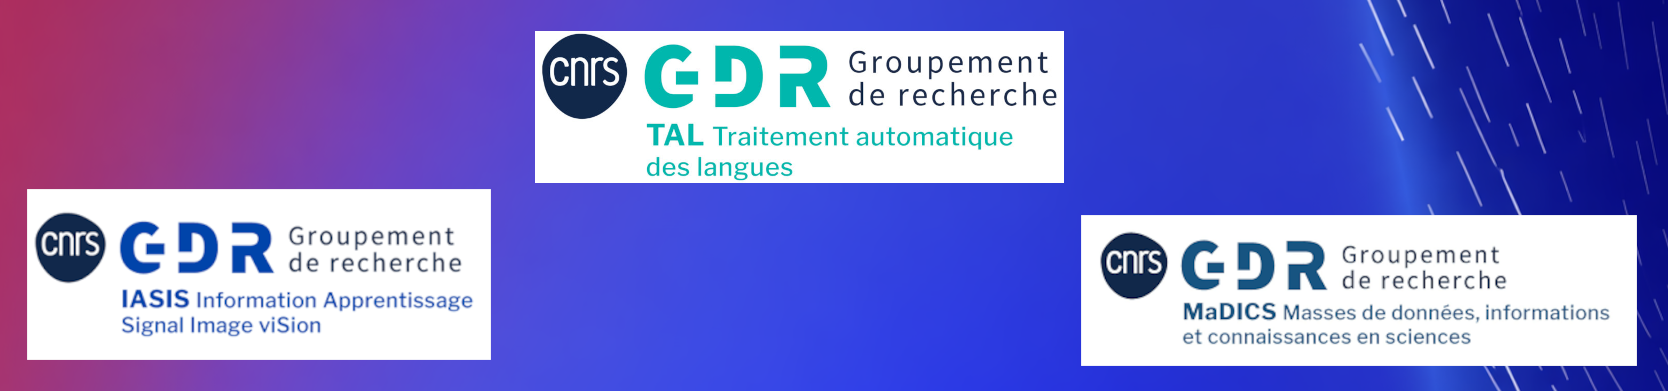
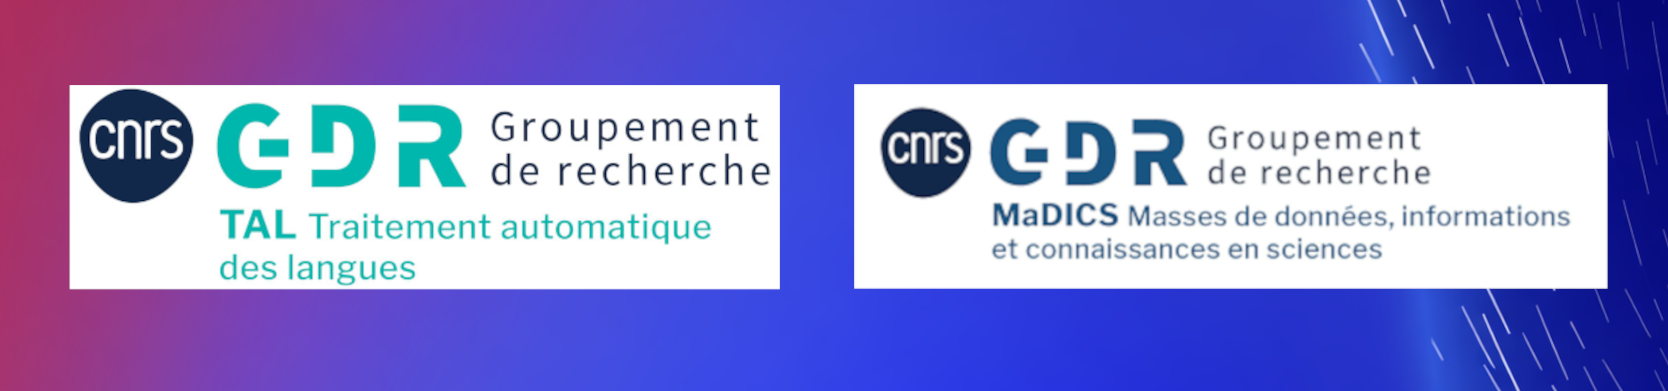
ok

diff --git a/themes/dettheme/layouts/_default/home.html b/themes/dettheme/layouts/_default/home.html
@@ -48,7 +48,7 @@
     </div>
 
     <div class="flex items-center mb-6">
-		Cet évènement est organisé par les GDR TAL, IASIS et MADICS du CNRS.
+		Cet évènement est organisé par les GDR TAL et MADICS du CNRS.
     </div>
 
     <div class="flex items-center mb-6">

diff --git a/themes/dettheme/layouts/partials/footer.html b/themes/dettheme/layouts/partials/footer.html
@@ -14,7 +14,7 @@
       </a>
 
       <p class="font-semibold">
-        GDR TAL, IASIS et MADICS - CNRS
+        GDR TAL et MADICS - CNRS
       </p>
 
       <p>

diff --git a/content/posts/10-23__Event.md b/content/posts/10-23__Event.md
@@ -46,7 +46,7 @@ conscientes”, qui soient à la fois capables de diriger les concepteurs de mod
 sur l’environnement. Elle s’attache aussi à rassembler la communauté sur toutes les questions liées à la frugalité de
 l’intelligence artificielle, de la mesure des ressources à l’implémentation efficace des modèles.
 
-Les thèmes abordés dans cette journée commune aux GdR TAL, IASIS et MADICS sont, sans être limités à :
+Les thèmes abordés dans cette journée commune aux GdR TAL et MADICS sont, sans être limités à :
 - Mesure de l’impact environnemental et sociétal : impact carbone, métriques, méthodologie de collection…
 - Benchmarks frugaux, protocoles d’évaluation, métriques mélangeant succès à une tâche et impact environnemental : densité en
 +information des modèles…

diff --git a/content/posts/10-25__invit4.md b/content/posts/10-25__invit4.md
@@ -3,7 +3,7 @@ title: "Invited talk: Raphaël Troncy"
 date: 2026-02-03T22:07:36+07:00
 slug: /rtronc/
 description: A venir
-image: https://www.eurecom.fr/fr/people/troncy-raphael/pictures/troncy-raphael_2.jpg
+image: https://avatars.githubusercontent.com/u/1051318?v=4
 caption: R. Troncy
 categories:
   - nlp

diff --git a/content/about.md b/content/about.md
@@ -12,7 +12,7 @@ Comité d'organisation:
 - Paul Caillon
 - Christophe Cerisara
 
-GDR TAL - IASIS - MADICS
+GDR TAL - MADICS
 
 ANR LLM4ALL
 
